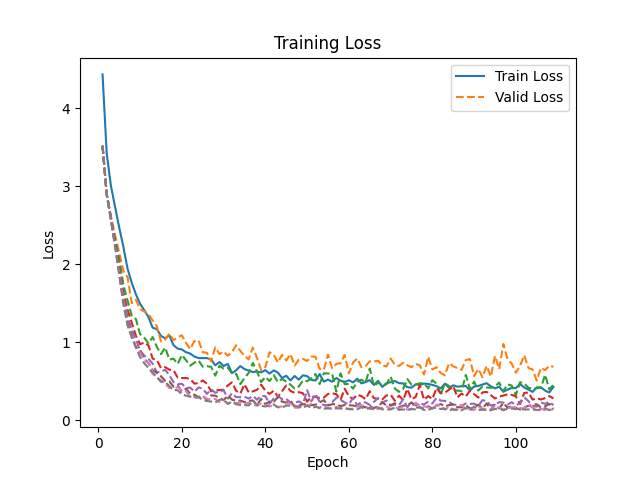
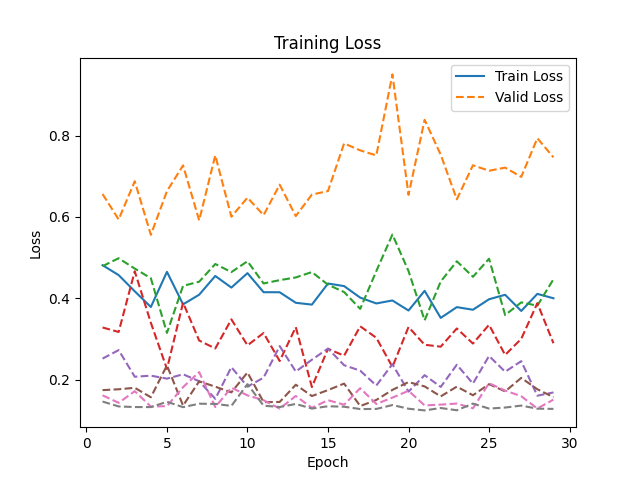
base_line,修正vocab参数传递问题

diff --git a/GenSC_finall_all.py b/GenSC_finall_all.py
@@ -738,7 +738,7 @@ def greedy_decode(model, src, fading_noise, pad, start_symbol, channel):
     return outputs[:,1:]
 
 
-def performance(args, SNR, model, test_iter, chl):
+def performance(args, SNR, model, test_iter, chl, vocab):
 
     cos_model = SentenceTransformer('sentence-transformers/all-MiniLM-L6-v2').to(device)
     bleu_score_1gram = BleuScore(1,0,0,0)
@@ -961,7 +961,7 @@ def main(Config):
     
     os.environ["TOKENIZERS_PARALLELISM"] = "false"           
     model.load_state_dict(torch.load(os.path.join(args.checkpoint_path, args.checkpoint_name), weights_only=True)) 
-    bleu_score ,similar_score = performance(args, Config.snr_noise_list, model, test_data, args.channel)
+    bleu_score ,similar_score = performance(args, Config.snr_noise_list, model, test_data, args.channel, vocab)
     print(f'bleu_score',' '.join(['{:.4f}'.format(x) for x in bleu_score]))
     print(f'simi_score',' '.join(['{:.4f}'.format(x) for x in similar_score]))   
     